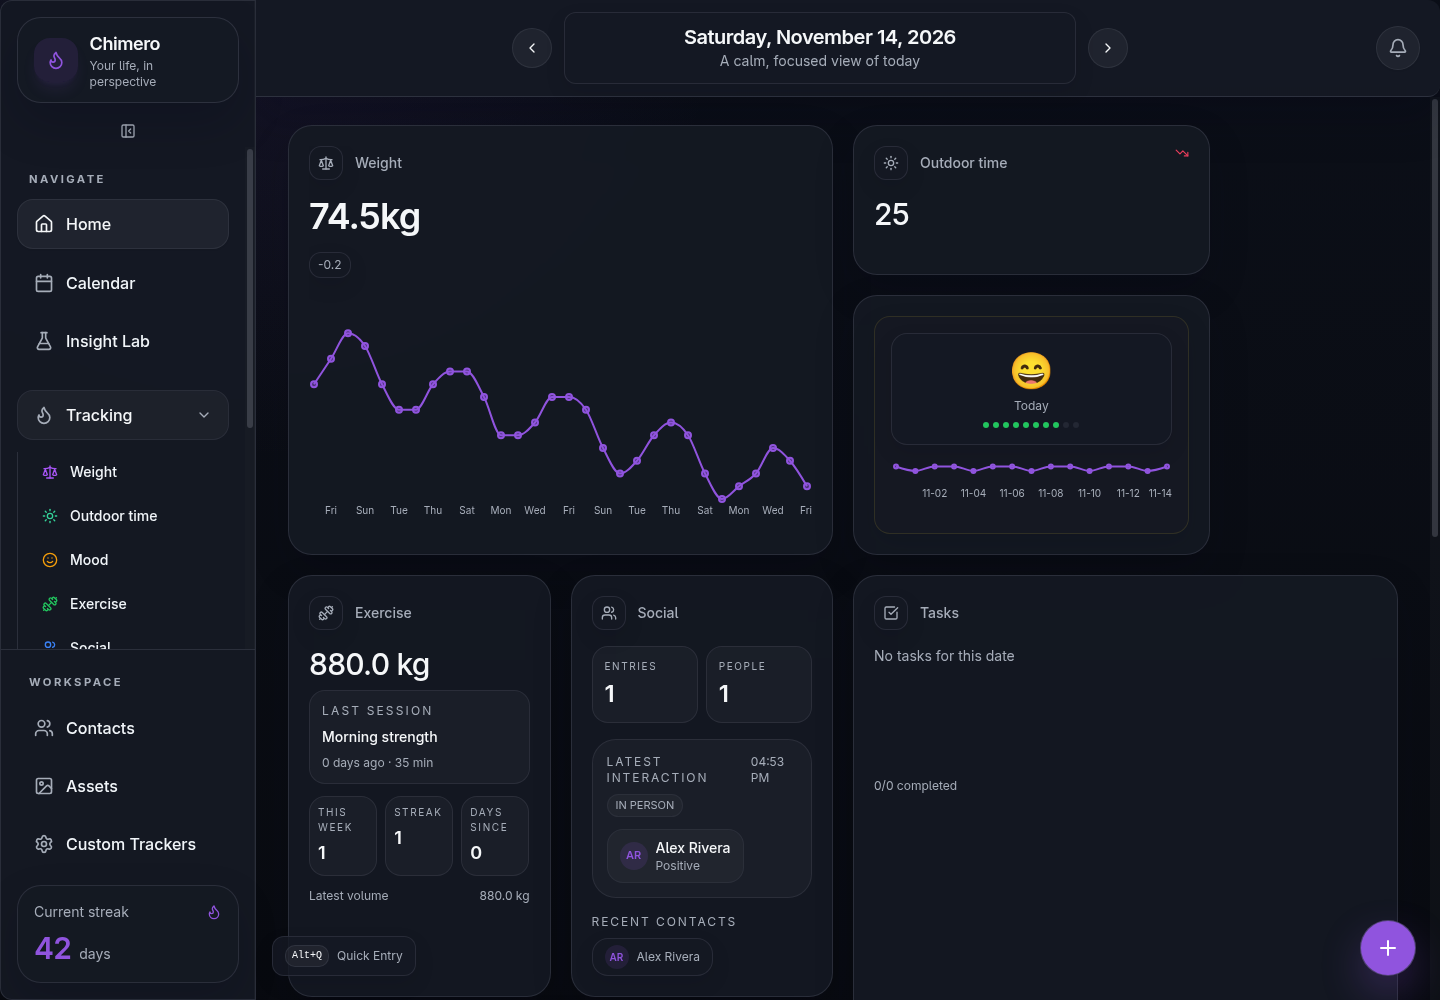
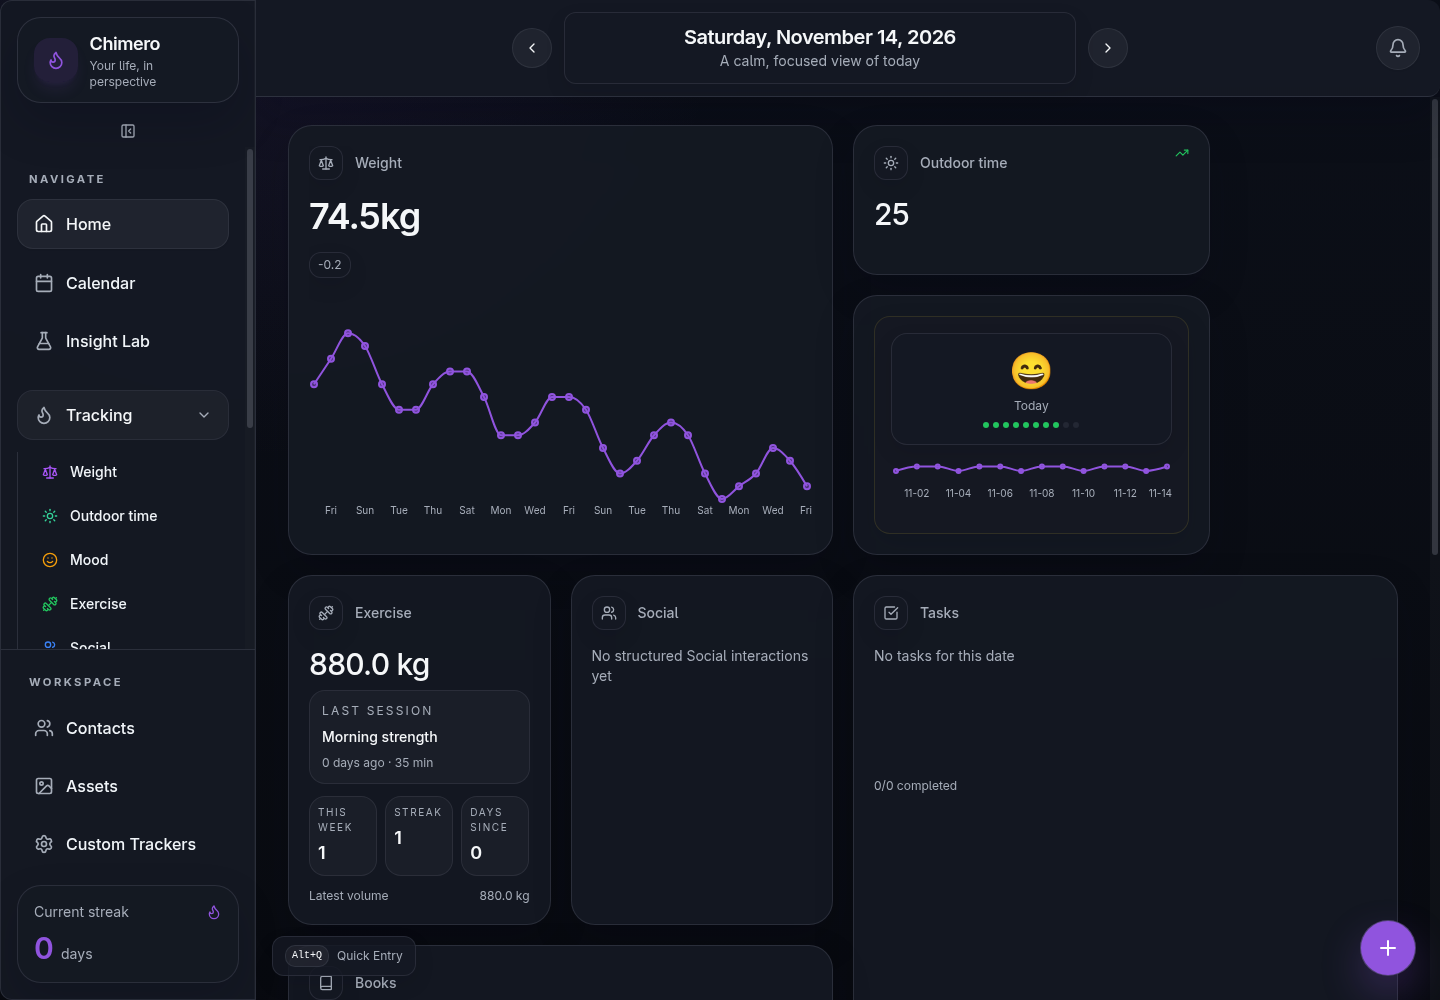
test: verify packaged Linux restart and desktop viewport workflows

diff --git a/chimero-habit-flow/tests/e2e/electron.spec.ts b/chimero-habit-flow/tests/e2e/electron.spec.ts
@@ -7,7 +7,7 @@ test('real SQLite tracker CRUD, layout persistence and restart', async () => {
   test.setTimeout(90_000)
   const profile = mkdtempSync(join(tmpdir(), 'chimero-e2e-'))
   const launch = async () => {
-    const app = await electron.launch({ args: [resolve('apps/electron'), '--disable-gpu'], env: { ...process.env, CHIMERO_USER_DATA_DIR: profile } })
+    const app = await electron.launch({ executablePath: process.env.CHIMERO_TEST_EXECUTABLE, args: process.env.CHIMERO_TEST_EXECUTABLE ? ['--disable-gpu'] : [resolve('apps/electron'), '--disable-gpu'], env: { ...process.env, CHIMERO_USER_DATA_DIR: profile } })
     await expect.poll(() => app.windows().some(w => w.url().includes('renderer/index.html'))).toBe(true)
     const page = app.windows().find(w => w.url().includes('renderer/index.html'))!
     await page.waitForFunction(() => Boolean(window.api))
@@ -18,7 +18,7 @@ test('real SQLite tracker CRUD, layout persistence and restart', async () => {
     running = await launch()
     const ids = await running.page.evaluate(async () => {
       const api = window.api
-      const tracker = await api.createTracker({ name:'Persistence check',type:'number',config:{unit:'min'} })
+      const tracker = await api.createTracker({ name:'Persistence check',type:'numeric',config:{unit:'min'} })
       if(!tracker) throw new Error('Tracker not created')
       const entry = await api.addEntry({trackerId:tracker.id,value:15,timestamp:Date.now(),note:'Disposable test'})
       if(!entry) throw new Error('Entry not created')
@@ -36,6 +36,15 @@ test('real SQLite tracker CRUD, layout persistence and restart', async () => {
     expect(restored.layout?.some(w=>w.trackerId===ids.trackerId)).toBe(true)
     await running.page.getByRole('button',{name:'Calendar',exact:true}).click()
     await expect(running.page.getByRole('button',{name:'Home',exact:true})).toBeVisible()
+    for (const size of [{width:1280,height:720},{width:1440,height:900},{width:1920,height:1080}]) {
+      await running.page.setViewportSize(size)
+      await running.page.getByRole('button',{name:'Home',exact:true}).click()
+      await expect(running.page.getByRole('button',{name:'Calendar',exact:true})).toBeVisible()
+      expect(await running.page.evaluate(() => document.documentElement.scrollWidth <= window.innerWidth)).toBe(true)
+      await running.page.keyboard.press('Alt+q')
+      await expect(running.page.getByRole('dialog')).toBeVisible()
+      await running.page.keyboard.press('Escape')
+    }
     const removed = await running.page.evaluate(async ids => {
       await window.api.deleteEntry(ids.entryId)
       const entries=await window.api.getEntries({trackerId:ids.trackerId})

diff --git a/Documentation/Release/VERIFICATION.md b/Documentation/Release/VERIFICATION.md
@@ -28,3 +28,17 @@ Tests use a separate disposable profile. SQL migration verification checks the S
 No Windows installer startup, platform notification delivery, comprehensive accessibility audit, long-term performance benchmark or exhaustive manual tracker matrix was verified. Unit tests still emit some existing Radix dialog-description and jsdom chart-size warnings. These do not fail tests but warrant follow-up. Statistical confidence is a heuristic, not a validated scientific significance measure.
 
 See the portfolio demo documentation for reproducible launch and package commands. Do not infer production certification from these checks.
+
+## Packaged Linux follow-up
+
+Rebuilt `dist/linux-unpacked` and launched its actual `chimero-electron` executable through Playwright. The same CRUD/layout/restart test passed (8.5 seconds total). This verifies unpacked Linux startup on this host, not an installer or all Linux distributions. Added viewport checks at 1280×720, 1440×900 and 1920×1080: navigation visible, no document-level horizontal overflow, Quick Entry opens and closes. This is a focused responsive smoke check, not exhaustive visual certification.
+
+Reproduce from `chimero-habit-flow/`:
+
+```sh
+pnpm build
+pnpm exec electron-builder --linux dir --publish never
+CHIMERO_TEST_EXECUTABLE="$PWD/dist/linux-unpacked/chimero-electron" pnpm test:e2e
+```
+
+Demo source now records explicit zero-activity days to form a legitimate synthetic baseline; missing observations are still treated as unknown by the application.
